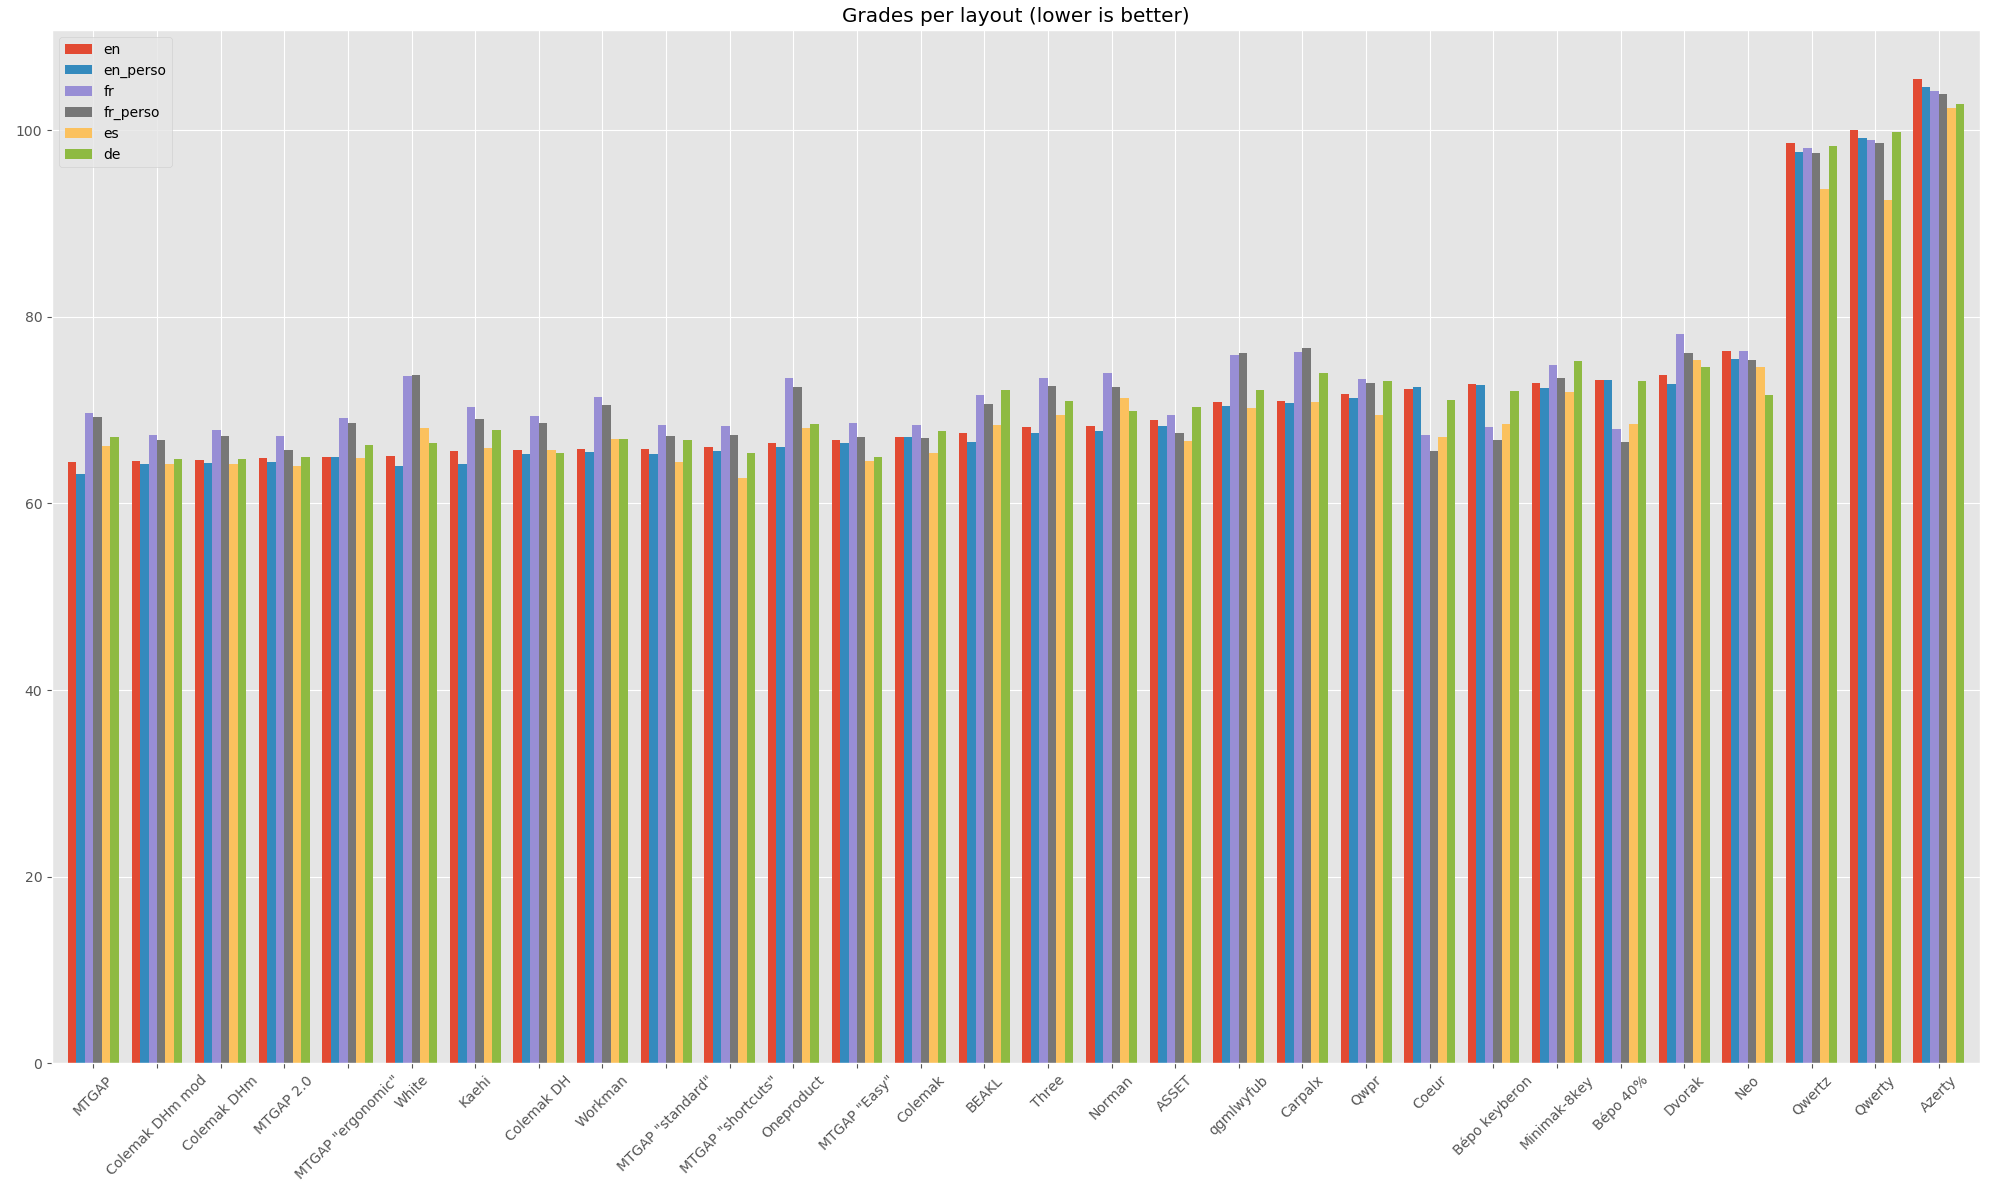
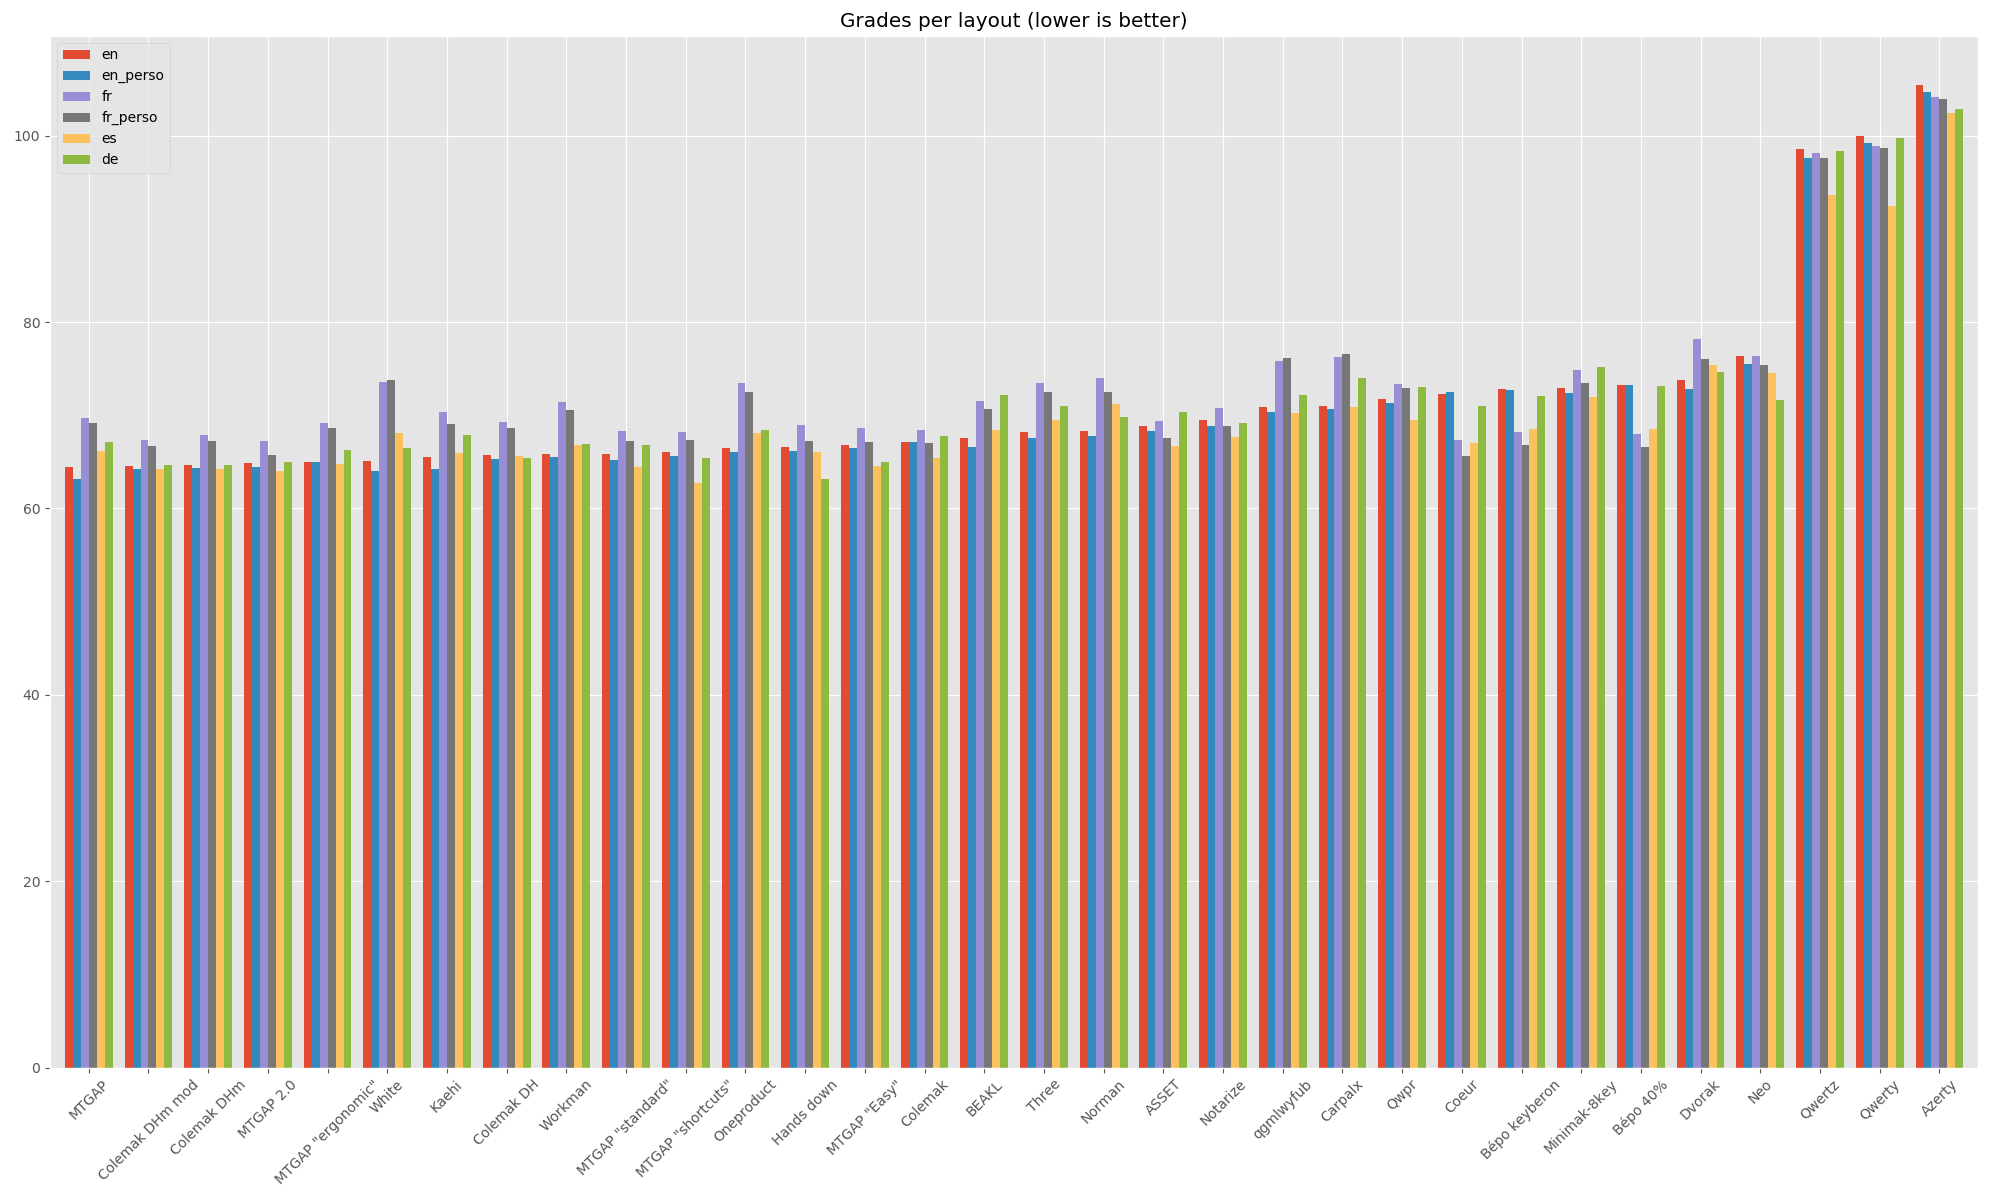
added "Hands down" and "Notarize" layouts

diff --git a/layout_evaluation/script.py b/layout_evaluation/script.py
@@ -61,10 +61,10 @@ def main():
 
     # filter/reorder the results
     # df_results = df_results[['en', 'en_nopunctuation', 'en_perso', 'fr', 'fr_nopunctuation', 'fr_perso', 'es', 'de']]
-    df_results = df_results[['en', 'en_perso', 'fr', 'fr_perso', 'es', 'de']]
-    # df_results = df_results[['en', 'fr', 'es', 'de']]
-    # df_results = df_results[['en', 'en_nopunctuation', 'en_perso']]
-    # df_results = df_results[['fr', 'fr_nopunctuation', 'fr_perso']]
+    df_results = df_results[['en', 'en_perso', 'fr', 'fr_perso', 'es', 'de']] # results_full.png
+    # df_results = df_results[['en', 'fr', 'es', 'de']] # results.png
+    # df_results = df_results[['en', 'en_nopunctuation', 'en_perso']] # results_en.png
+    # df_results = df_results[['fr', 'fr_nopunctuation', 'fr_perso']] # results_fr.png
 
     print(df_results)
     # print results in markdown format (pandas 1.0+)

diff --git a/README.md b/README.md
@@ -226,12 +226,14 @@ Here is the complete results list. The layouts can be seen in `config.txt`.
 | [MTGAP "standard"](http://mtgap.bilfo.com/official_keyboard.html)                               |   65.84 |         65.24 |  68.35 |        67.27 |   64.43 |  66.78 |
 | [MTGAP "shortcuts"](http://mtgap.bilfo.com/official_keyboard.html) (ROTS)                       |   66.02 |         65.59 |  68.24 |        67.30 |   62.72 |  65.44 |
 | [Oneproduct](https://geekhack.org/index.php?topic=67604.0)                                      |   66.44 |         66.07 |  73.48 |        72.44 |   68.07 |  68.45 |
+| [Hands down](https://sites.google.com/alanreiser.com/handsdown)                                 |   66.64 |         66.20 |  68.97 |        67.21 |   66.10 |  63.14 |
 | [MTGAP "Easy"](http://mtgap.bilfo.com/official_keyboard.html)                                   |   66.78 |         66.44 |  68.63 |        67.15 |   64.55 |  64.97 |
 | [Colemak](https://colemak.com/)                                                                 |   67.15 |         67.08 |  68.40 |        67.00 |   65.37 |  67.77 |
 | [BEAKL](https://deskthority.net/wiki/BEAKL)                                                     |   67.53 |         66.54 |  71.57 |        70.62 |   68.37 |  72.13 |
 | [Three](https://github.com/jackrosenthal/threelayout)                                           |   68.23 |         67.51 |  73.43 |        72.53 |   69.46 |  71.00 |
 | [Norman](https://normanlayout.info/)                                                            |   68.34 |         67.74 |  74.01 |        72.48 |   71.24 |  69.86 |
 | [ASSET](http://millikeys.sourceforge.net/asset/)                                                |   68.88 |         68.29 |  69.42 |        67.53 |   66.69 |  70.35 |
+| [Notarize](https://sites.google.com/alanreiser.com/handsdown)                                   |   69.45 |         68.83 |  70.76 |        68.81 |   67.68 |  69.21 |
 | [qgmlwyfub](http://mkweb.bcgsc.ca/carpalx/?full_optimization)                                   |   70.83 |         70.39 |  75.87 |        76.11 |   70.24 |  72.16 |
 | [Carpalx](http://mkweb.bcgsc.ca/carpalx/?full_optimization)                                     |   71.02 |         70.70 |  76.25 |        76.62 |   70.86 |  74.00 |
 | [Qwpr](https://sourceforge.net/projects/qwpr/)                                                  |   71.69 |         71.30 |  73.36 |        72.93 |   69.44 |  73.07 |
